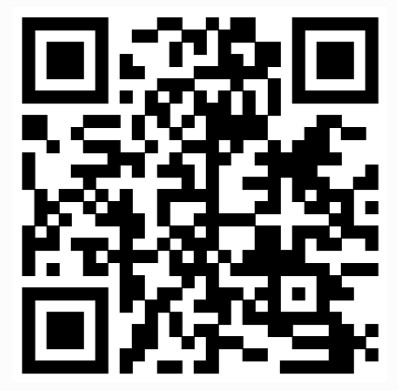
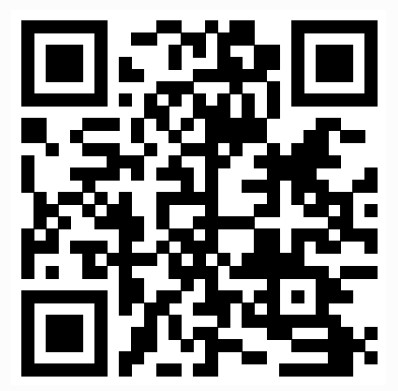
QR Code with Video (QR Code Show)

diff --git a/qrcodeshow.html b/qrcodeshow.html
@@ -132,7 +132,7 @@
 
                         <div class="qrright">
                             <div class="qr-img">
-                                <img src="images/blockcleft_qrcode.jpg" width="100%" alt="QR Code Right">
+                                <img src="images/blockcright_qrcode.jpg" width="100%" alt="QR Code Right">
                             </div>
 
                             <div class="qr-content">
